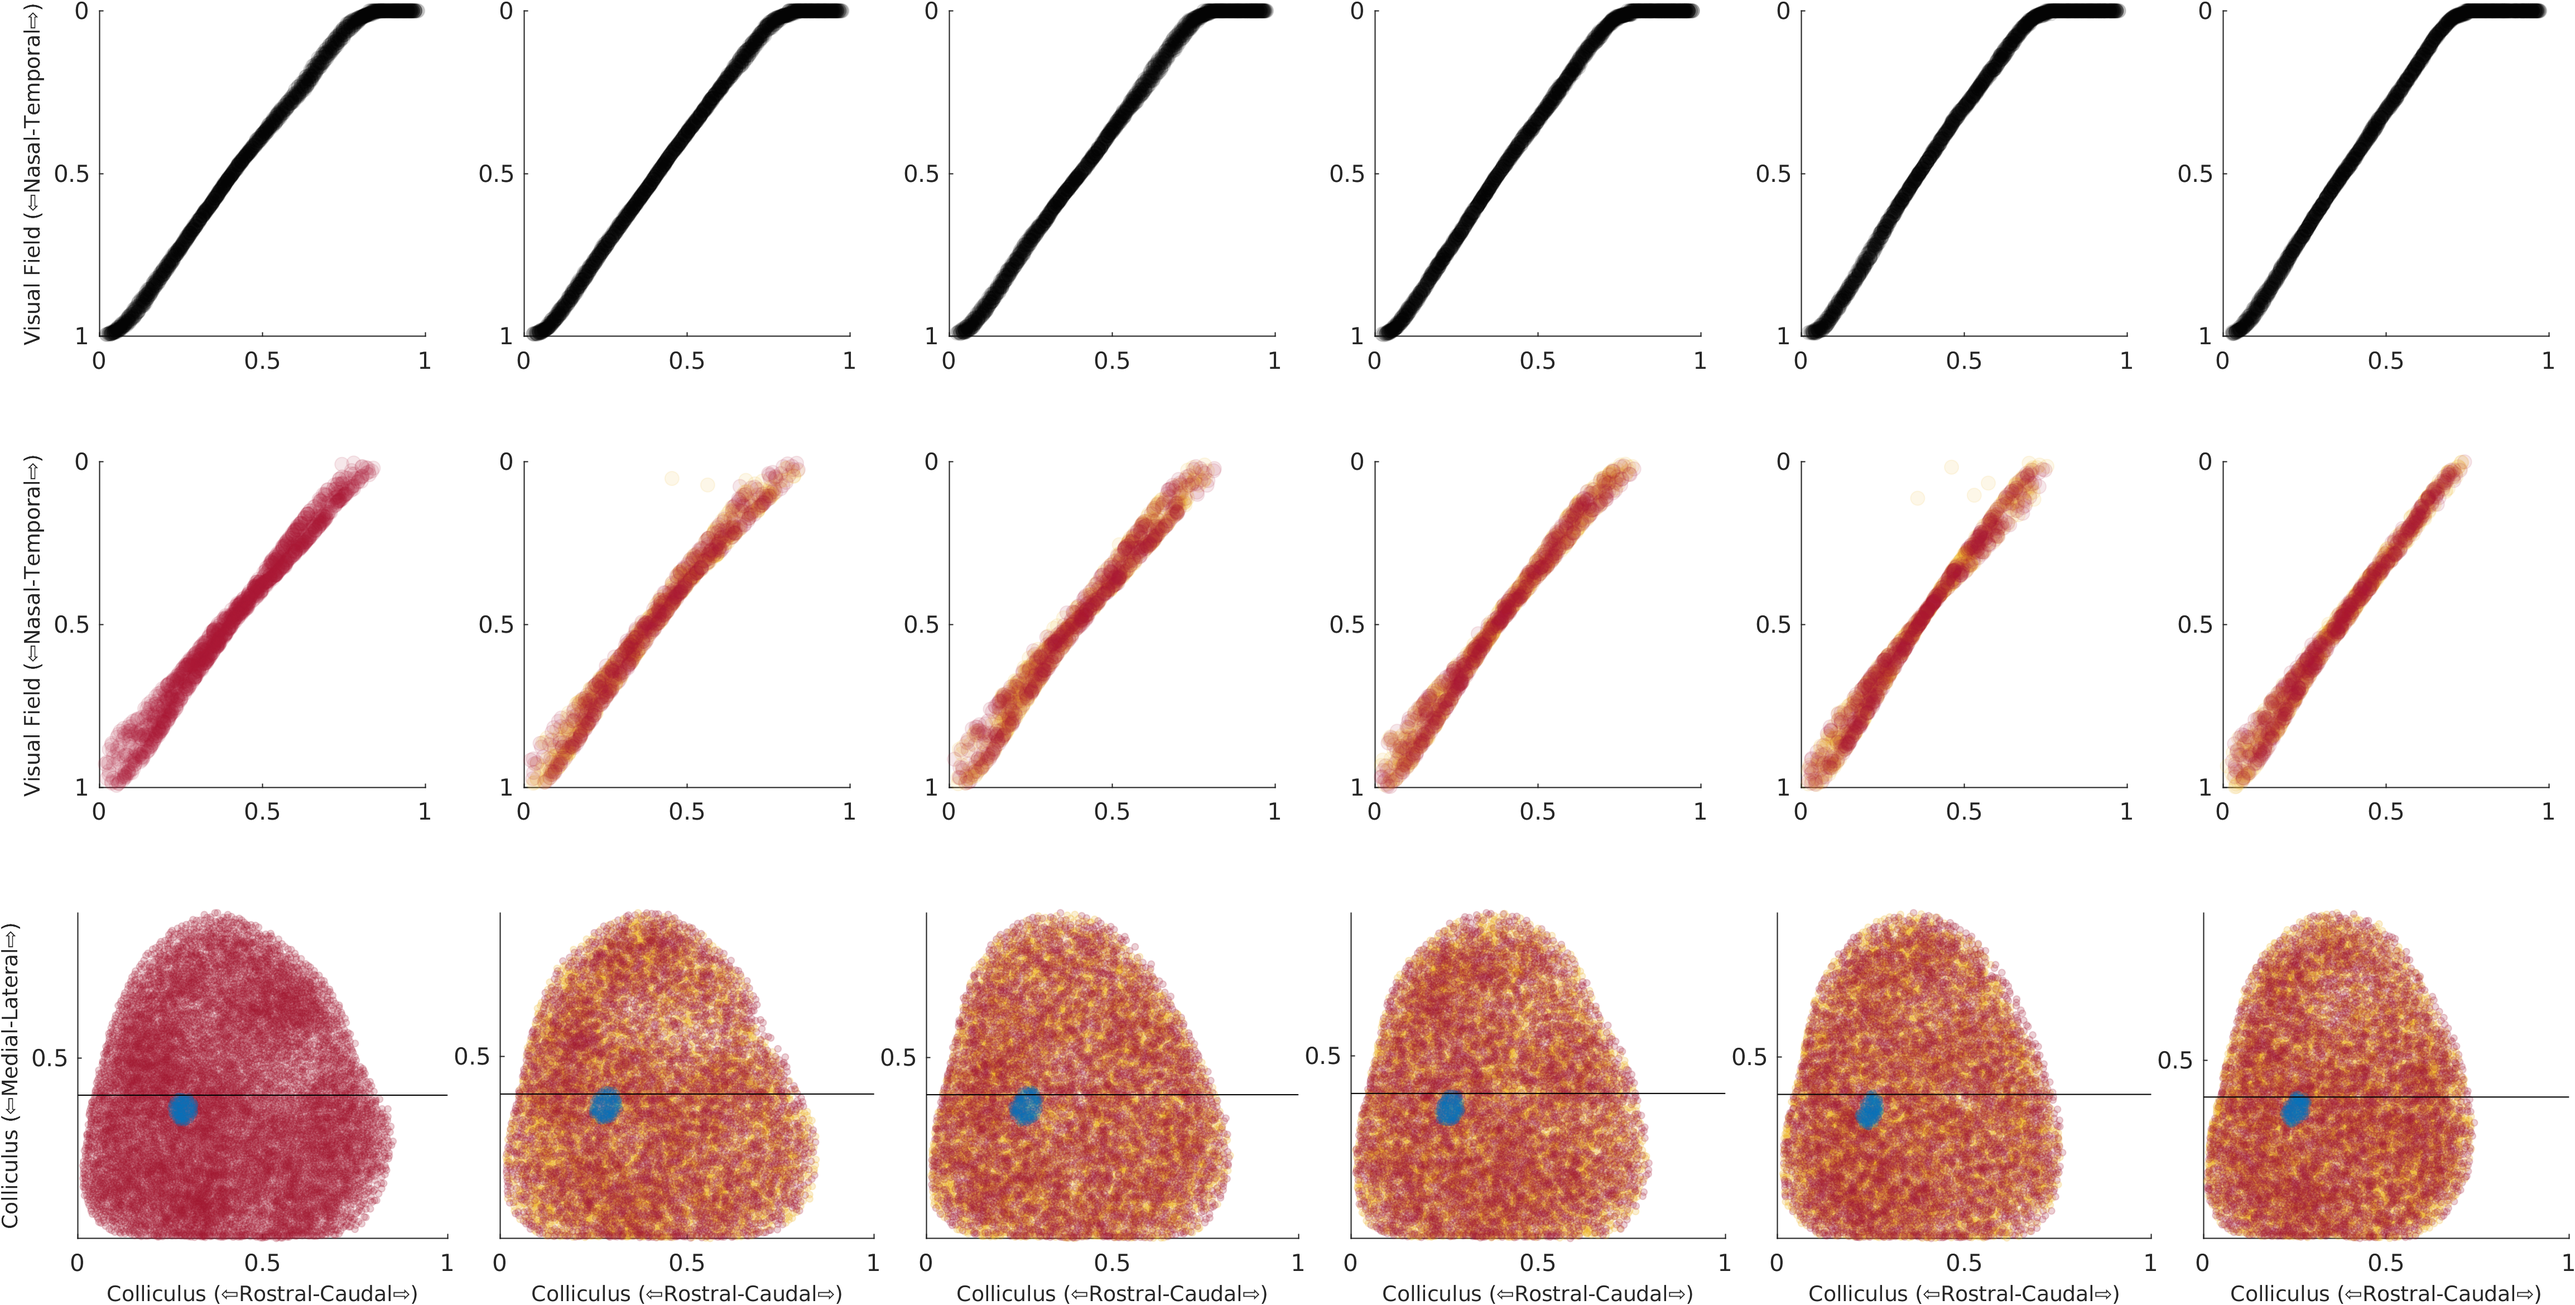
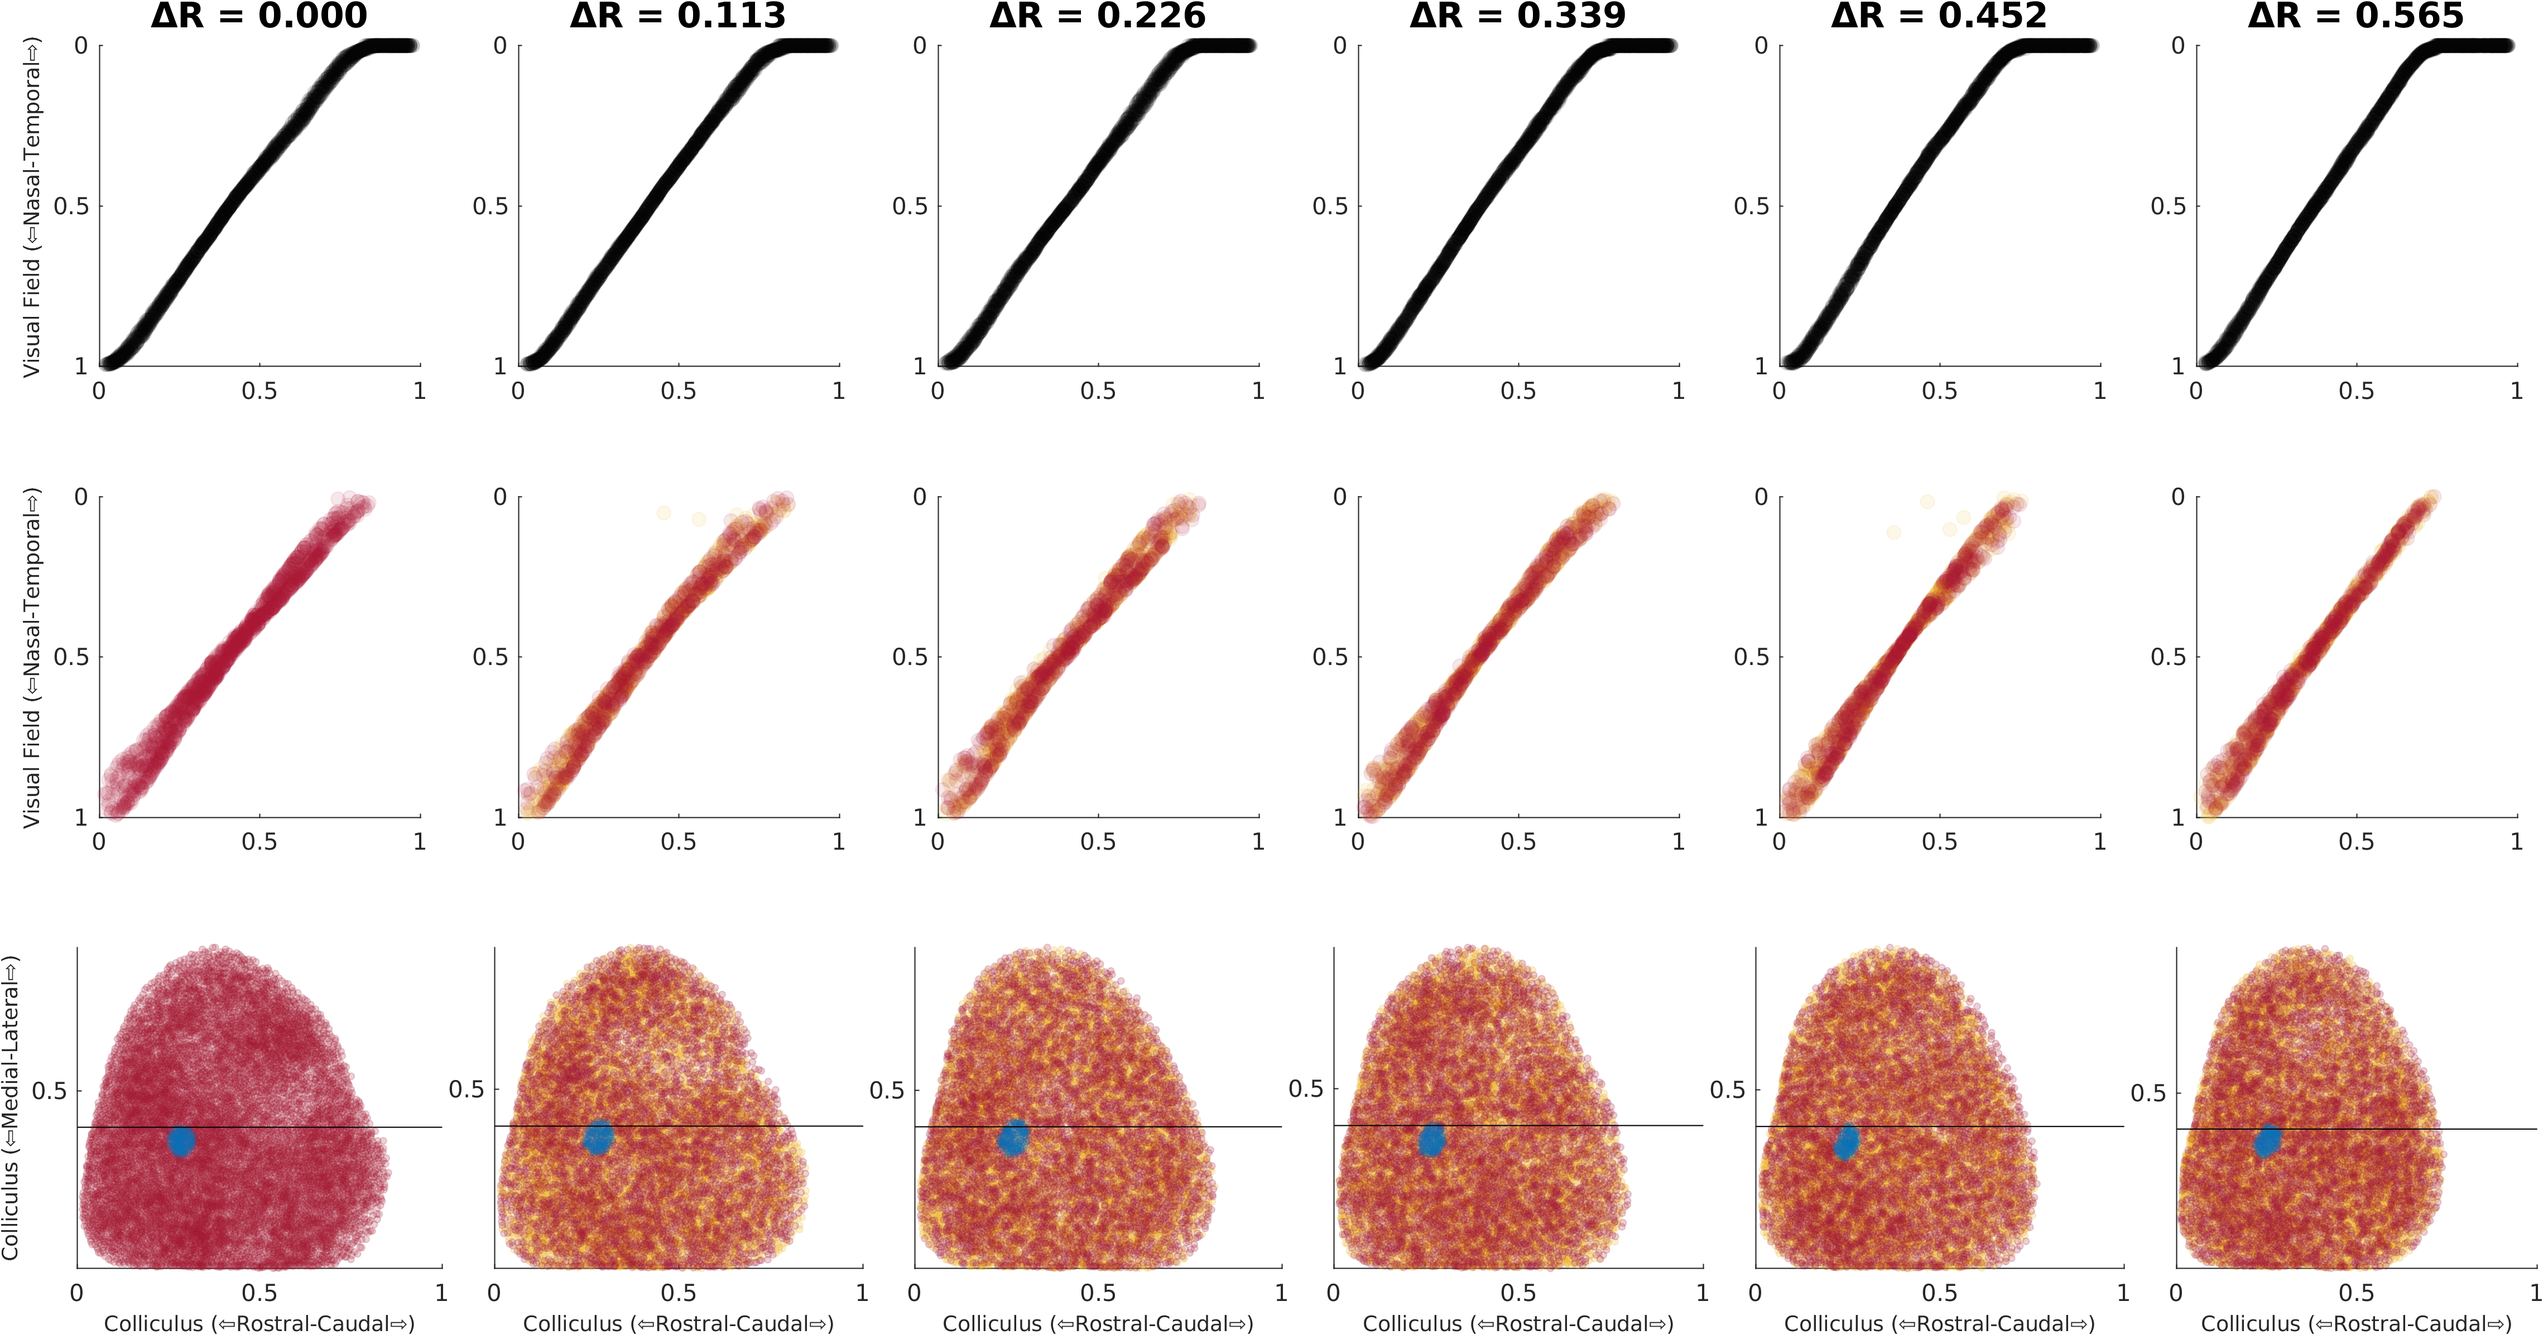
push

diff --git a/script_image_stitching.m b/script_image_stitching.m
@@ -1,6 +1,6 @@
 % ranges
 dr = [0.00, 0.4, 0.8, 1.2, 1.6, 2.0];
-gamma = [0.00625, 0.001, 0.00625, 0.01, 0.0625] + eps(1);
+gamma = [0.000625, 0.001, 0.00625, 0.01, 0.0625] + eps(1);
 ratios = [0.4, 0.5, 0.6];
 
 %instances
@@ -12,24 +12,27 @@ rep = 1;
 % parameters
 bar_size = 5;
 
-% %%------------------------------------------------------------------------------------------------------------------------------------------------------------------------------------------
-% %% Anatomy plots dR
-% %%------------------------------------------------------------------------------------------------------------------------------------------------------------------------------------------
-%     %load the images 
-%         fig = [];
-%         titles = {"A", "B", "C", "D", "E", "F"};
-%         plot_title = 'A B C D E F';
-%         ordinals = '(1) \n  (2) \n (3) \n (4) \n (5) \n (6)';
+%%------------------------------------------------------------------------------------------------------------------------------------------------------------------------------------------
+%% Anatomy plots dR
+%%------------------------------------------------------------------------------------------------------------------------------------------------------------------------------------------
+    %load the images 
+        fig = [];
+        titles = {"A", "B", "C", "D", "E", "F"};
+        plot_title = 'A B C D E F';
+        ordinals = '(1) \n  (2) \n (3) \n (4) \n (5) \n (6)';
 
-%         for i = 1:length(dr)
-%             filename = sprintf('./results_plots/generated_plots/figure_anatomy_ID(EphA3Ki, Ratio, Gamma, Repeat): (%0.2f, %0.2f, %d, %d).png', dr(i), r, g, rep);
-%             fig = cat(2, fig, imread(filename));
-%         end
-%         imshow(fig)
-%         annotation('textbox', [0.13 0.03 0.8 0.1],'String', titles)
+        for i = 1:length(dr)
+            filename = sprintf('./results_plots/generated_plots/figure_anatomy_ID(EphA3Ki, Ratio, Gamma, Repeat): (%0.2f, %0.2f, %d, %d).png', dr(i), r, g, rep);
+            fig = cat(2, fig, imread(filename));
+        end
+        imshow(fig)
+        annotation('textbox', [0.13 0.03 0.8 0.1],'String', titles)
 
 
-%         imwrite(fig, "./results_plots/stitched_plots/paper_anatomy_dr.png", 'png')
+        imwrite(fig, "./results_plots/stitched_plots/paper_anatomy_dr.png", 'png')
+%%------------------------------------------------------------------------------------------------------------------------------------------------------------------------------------------
+%% Anatomy plots Activity
+%%------------------------------------------------------------------------------------------------------------------------------------------------------------------------------------------
     for j = 1:length(gamma)
     %load the images 
         fig = [];
@@ -78,8 +81,26 @@ bar_size = 5;
         fig1 = cat(2, fig1, imread(filename1));
         L = size(fig1, 1);
         filename2 = sprintf('./results_plots/generated_plots/figure_submaps_ID(EphA3Ki, Ratio, Gamma, Repeat): (%0.2f, %0.2f, %d, %d)_SCANNER_CTOF.png', dr(i), r, g, rep);
-        fig2 = cat(2, fig2, imread(filename2));
-        L = size(fig2, 1);
+        
+        if i == 1
+            fig2 = cat(2, fig2, imread(filename2));
+            L = size(fig2, 1);  
+        elseif size(imread(filename2),2) == size(fig2,2)
+            fig2 = cat(2, fig2, imread(filename2));
+            L = size(fig2, 1);
+        else
+            i 
+            temp = imread(filename2);
+            size(fig2)
+            size(temp)
+
+            size(fig2,2) - size(temp, 2)
+            temp = padarray(temp, [0,size(fig2,2) - size(temp, 2),0], 0, 'pre');
+            fig2 = cat(2, fig2, temp);
+            L = size(fig2, 1);
+        end
+
+
     end
 
     L = size(fig1, 2);

diff --git a/script_analysis.m b/script_analysis.m
@@ -25,7 +25,7 @@ tel = 1.0;
 knock_in = (-tel:(tel - (-tel))/10:tel) + tel;
 gradients = unique([0 knock_in]); [0.15, 0.3, 0.45, 4.0];    
 ratios = 0.5; [0.4, 0.5, 0.6];    
-gamma = 1; [0.000625, 0.001, 0.00625, 0.01, 0.0625]; 0.00625; 
+gamma =  [0.000625, 0.001, 0.00625, 0.01, 0.0625]; 1; 0.00625; 
 repeats = 1:1;
 
 
@@ -205,9 +205,9 @@ parfor ind = 1:L
         %  construct a series of pure injection plots with axes labels only for the leftmost plot
         if (rep == 1) && plot_figs
                 if u==1
-                      anatomy_reduced(analysis_obj_anatomy, plotting_dictionary.anatomy, 1);
+                      anatomy_reduced(analysis_obj_anatomy, plotting_dictionary.anatomy, 1, grad / 3.54);
                 else
-                      anatomy_reduced(analysis_obj_anatomy, plotting_dictionary.anatomy, 0);
+                      anatomy_reduced(analysis_obj_anatomy, plotting_dictionary.anatomy, 0, grad / 3.54);
                 end
         end
 

diff --git a/src/functions_plotting/anatomy_reduced.m b/src/functions_plotting/anatomy_reduced.m
@@ -1,4 +1,4 @@
-function [] = anatomy(obj, dict, plot_axes)
+function [] = anatomy(obj, dict, plot_axes, dr)
     % this function takes a super object and produces an image with six subplots: 
     % 1. Colour coded retinal location
     % 2. Colour coded gradients with two lines showing where slices in the DV axis are to be taken. Gradients are Eph in the retina and Eprhin in the colliculus - both the A system
@@ -175,6 +175,7 @@ fig = figure('Position', [0, 0, 400, 1600]);
     alpha(transparency);
     xlabel(subplot3_xlabel, 'FontSize', fs);
     ylabel(subplot3_ylabel, 'FontSize', fs);
+    title(sprintf('ΔR = %0.3f', dr), 'FontSize', 15)
     set(gca, 'YDir','reverse');
     axis equal;
     axis([0 1 0 1]);
